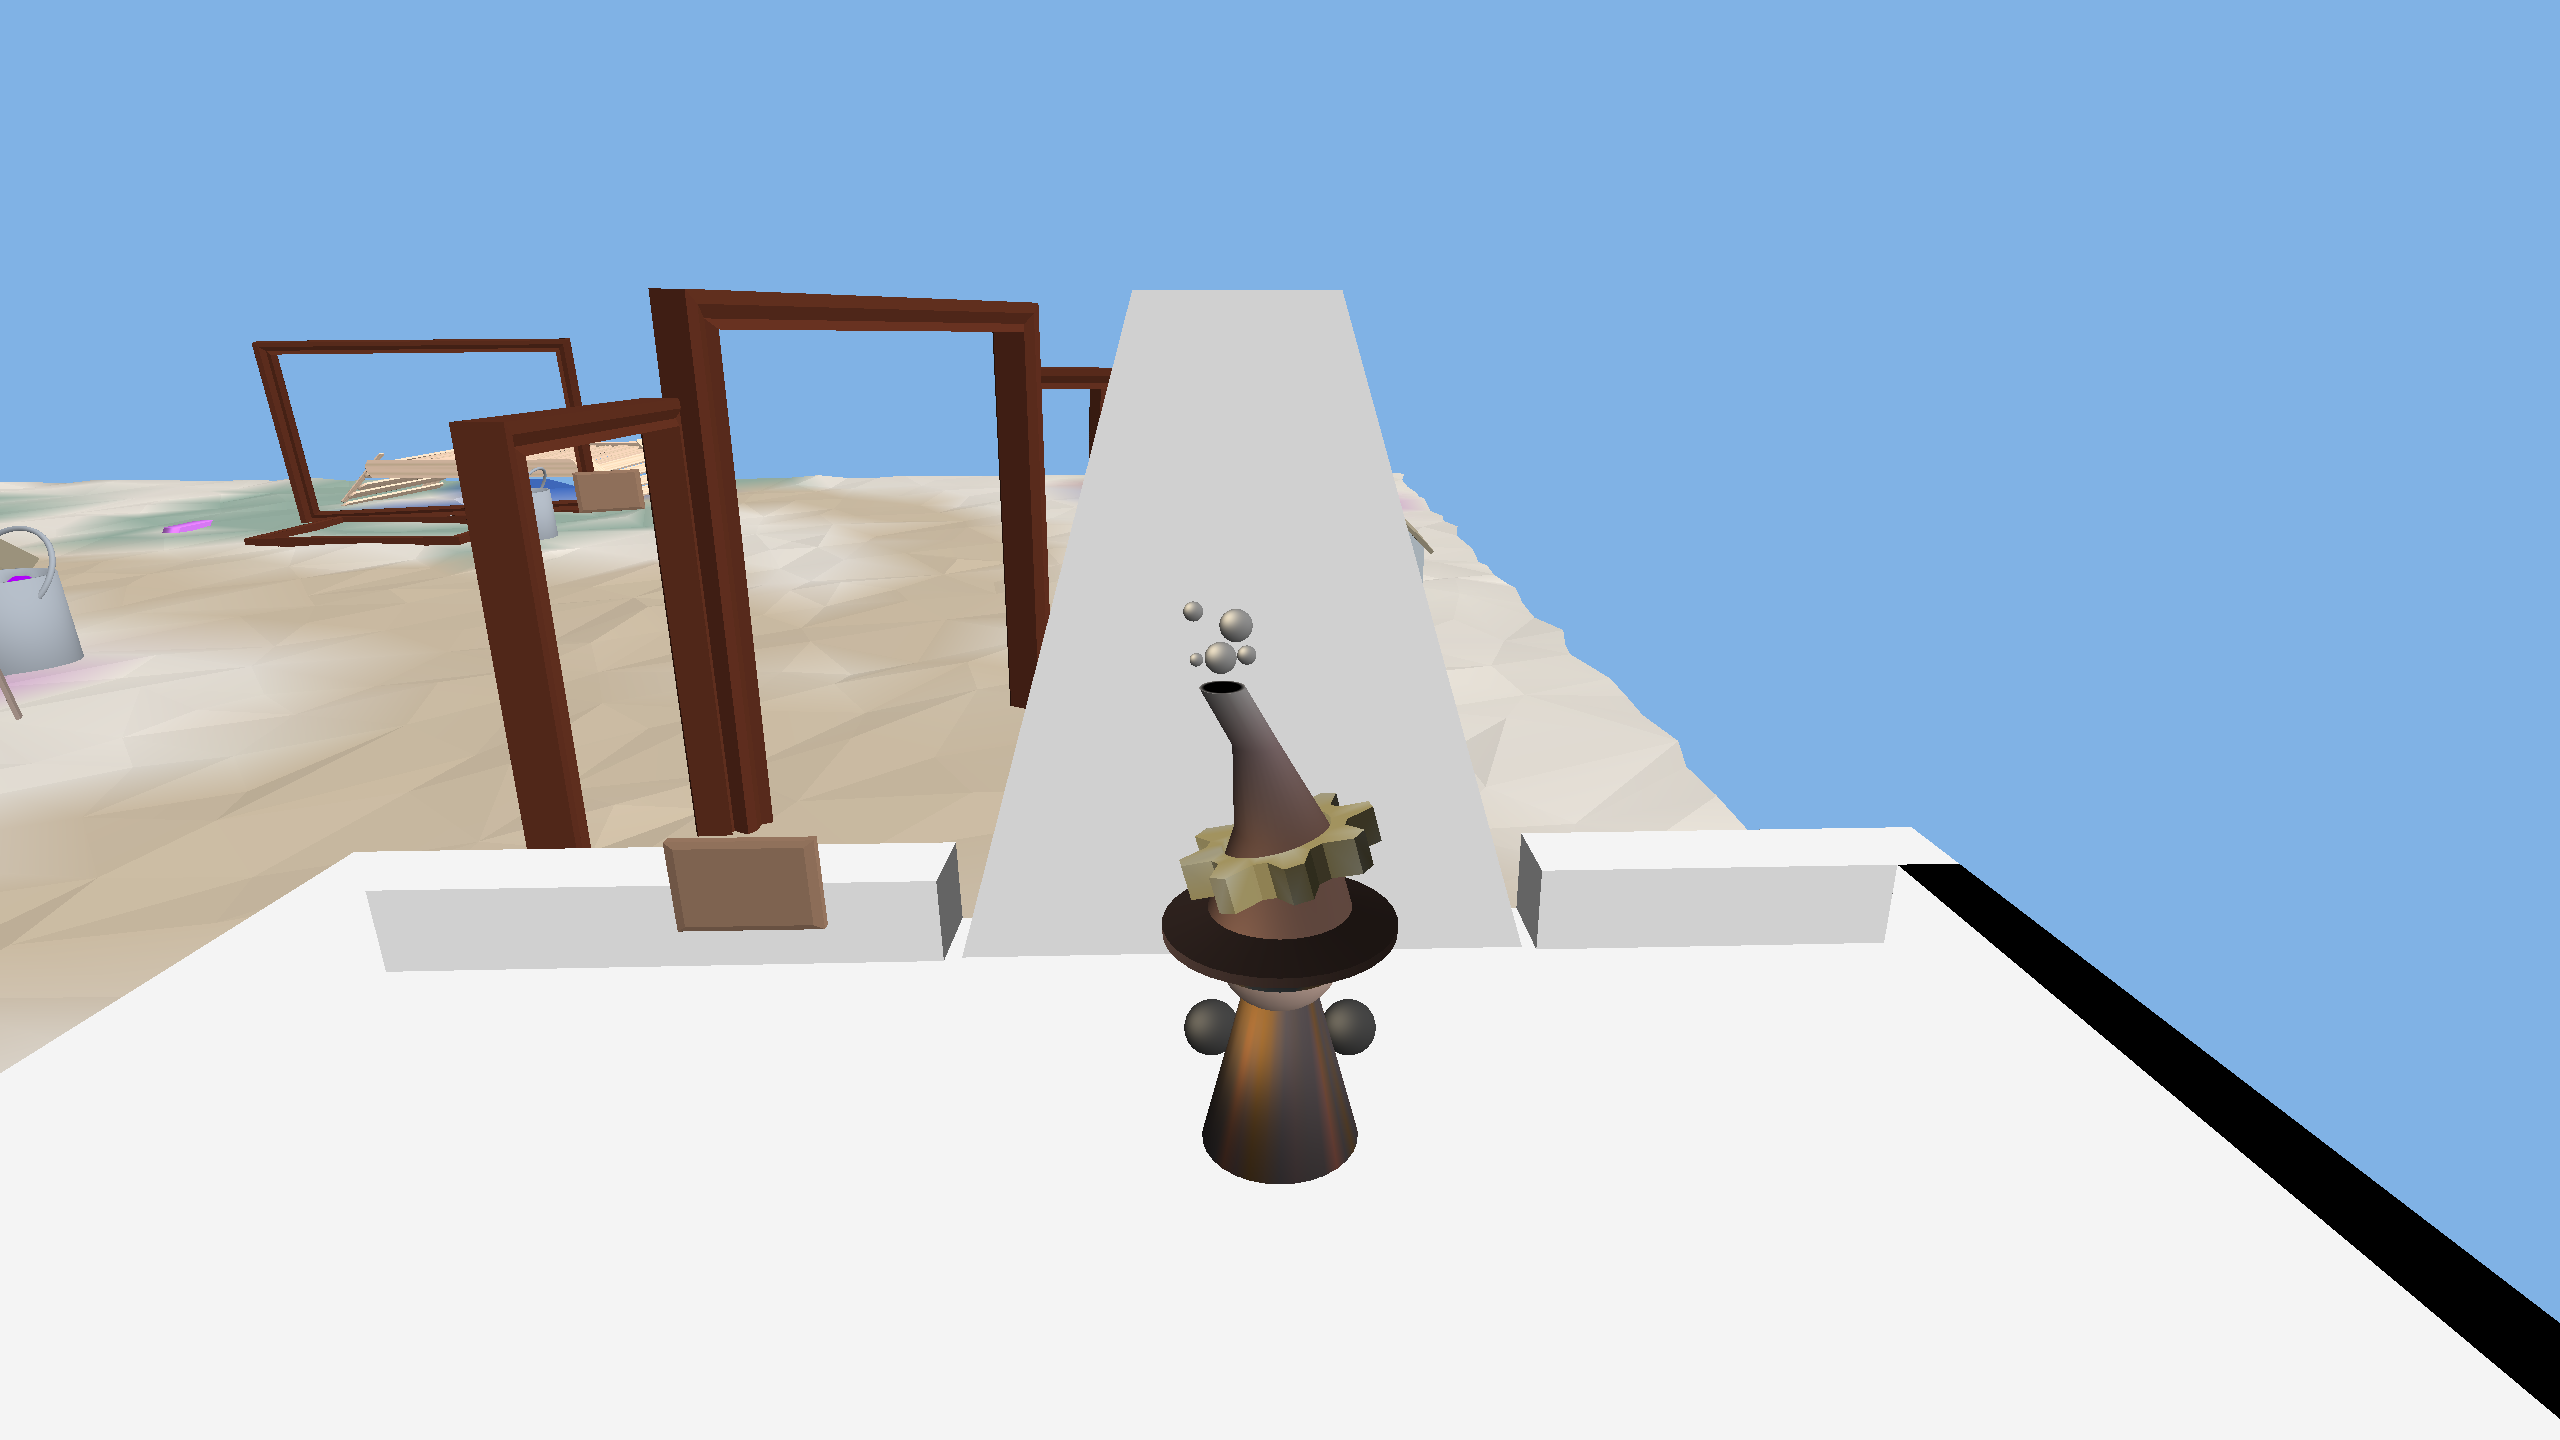
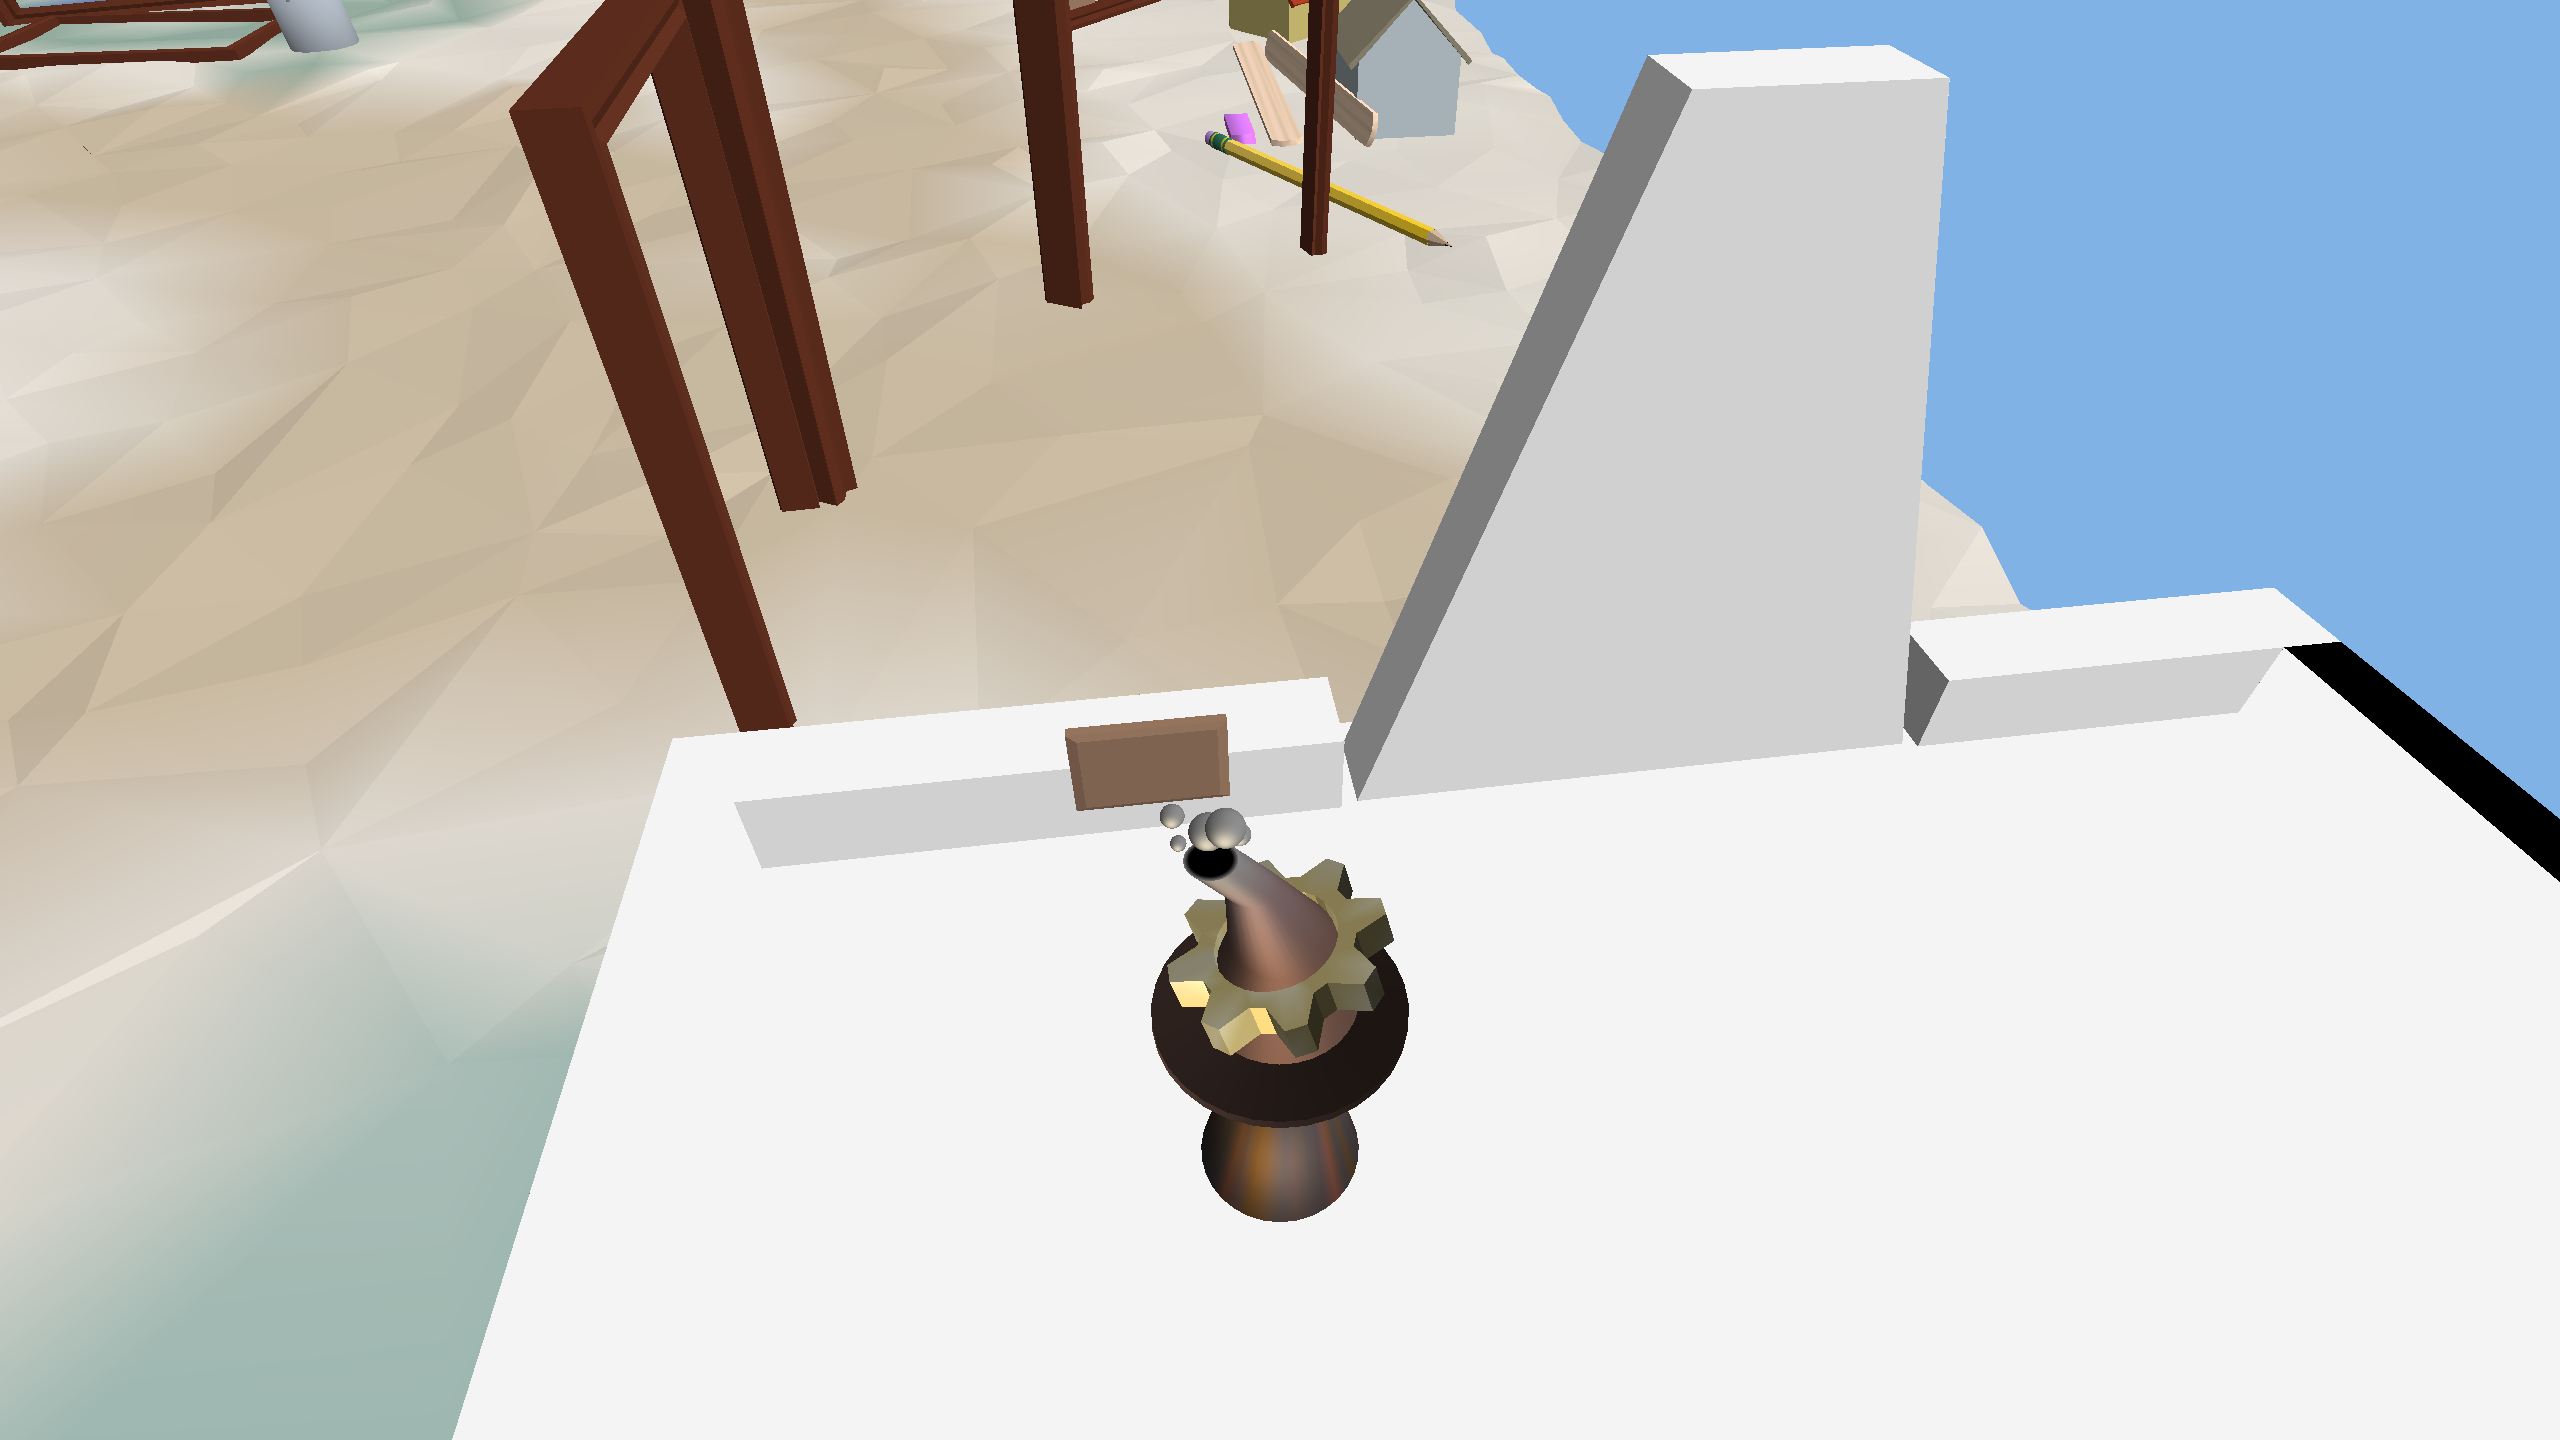
Integrate my zoom code to master

diff --git a/PlayMode.cpp b/PlayMode.cpp
@@ -24,24 +24,39 @@ GLuint artworld_meshes_for_rocket_color_texture_program = 0;
 GLuint textcube_meshes_for_lit_color_texture_program = 0;
 GLuint wizard_meshes_for_lit_color_texture_program = 0;
 
+// object name to transform
+std::unordered_map<std::string, Scene::Transform *>nameToTransform;
+// text bearer name to mesh
+std::unordered_map<std::string, Mesh const *>textBearers;
+// text bearer name to camera
+std::unordered_map<std::string, std::string>textBearerCams;
+
 Load<MeshBuffer> artworld_meshes(LoadTagDefault, []() -> MeshBuffer const * {
     MeshBuffer const *ret = new MeshBuffer(data_path("artworld.pnct"));
     artworld_meshes_for_lit_color_texture_program = ret->make_vao_for_program(lit_color_texture_program->program);
     artworld_meshes_for_rocket_color_texture_program = ret->make_vao_for_program(rocket_color_texture_program->program);
+
+    // register text bearers and their cameras
+    for (const auto &[name, mesh] : ret->meshes) {
+      if (name.rfind("text_", 0) != std::string::npos) {
+std::cout << "Found sign: " << name << std::endl;
+        textBearers[name] = &mesh;
+        if (name.back() != 'm') {
+          std::cerr << "Sign mesh " << name << " doesn't end in m" << std::endl;
+        } else {
+          std::string camname = name;
+          camname.back() = 'c';
+          textBearerCams[name] = camname;
+        }
+      }
+    }
+
     return ret;
 });
 
 Load<MeshBuffer> wizard_meshes(LoadTagDefault, []() -> MeshBuffer const * {
     MeshBuffer const *ret = new MeshBuffer(data_path("wizard.pnct"));
     wizard_meshes_for_lit_color_texture_program = ret->make_vao_for_program(lit_color_texture_program->program);
-    return ret;
-});
-
-Mesh const *textFace;
-Load<MeshBuffer> textcube_meshes(LoadTagDefault, []() -> MeshBuffer const * {
-    MeshBuffer const *ret = new MeshBuffer(data_path("textcube.pnct"));
-    textcube_meshes_for_lit_color_texture_program = ret->make_vao_for_program(lit_color_texture_program->program);
-    textFace = &ret->lookup("TextFace");
     return ret;
 });
 
@@ -54,6 +69,9 @@ Load<Scene> artworld_scene(LoadTagDefault, []() -> Scene const * {
     return new Scene(
             data_path("artworld.scene"),
             [&](Scene &scene, Scene::Transform *transform, std::string const &mesh_name) {
+                // keep transforms available
+                nameToTransform[mesh_name] = transform;
+
                 if (mesh_name == "Player")
                     return;
                 
@@ -132,6 +150,8 @@ PlayMode::PlayMode()
     player.camera->fovy = glm::radians(60.0f);
     player.camera->near = 0.01f;
     player.camera->transform->parent = player.transform;
+    player.camera->transform->name = "player_c";
+    scene.cams["player_c"] = player.camera;
     
     //default view point behind player
     player.camera->transform->position = glm::vec3(-0.0f, -5.0f, 2.5f);
@@ -162,18 +182,6 @@ PlayMode::PlayMode()
     wizard_drawable->pipeline.count = mesh.count;
     wizard_drawable->specular_info.shininess = 10.0f;
     wizard_drawable->specular_info.specular_brightness = glm::vec3(1.0f, 0.9f, 0.7f);
-    
-    scene.transforms.emplace_back();
-    transform = &scene.transforms.back();
-    transform->position = glm::vec3(2.0, 2.0, 2.0);
-    
-    scene.drawables.emplace_back(std::make_shared<Scene::Drawable>(transform));
-    std::shared_ptr<Scene::Drawable> text_drawable = scene.drawables.back();
-    text_drawable->pipeline = lit_color_texture_program_pipeline;
-    text_drawable->pipeline.vao = textcube_meshes_for_lit_color_texture_program;
-    text_drawable->pipeline.type = textFace->type;
-    text_drawable->pipeline.start = textFace->start;
-    text_drawable->pipeline.count = textFace->count;
     
     initialize_scene_metadata();
     initialize_collider("col_", artworld_meshes);
@@ -335,14 +343,67 @@ bool PlayMode::handle_event(SDL_Event const &evt, glm::uvec2 const &window_size)
 }
 
 void PlayMode::update(float elapsed) {
-    if (!animated && read.pressed) {
+    if (!animated && read.pressed && animationTime == 0.0) {
+      //float distance = std::numeric_limits<float>::max();
+      float distance = 5.0; // sight distance
+      auto playerToWorld = player.transform->make_local_to_world();
+      auto here = playerToWorld * glm::vec4(player.transform->position, 1.0);
+      std::string selected;
+      for (const auto &[name, mesh] : textBearers) {
+	auto transform = nameToTransform[name];
+        auto there = transform->make_local_to_world() * glm::vec4(transform->position, 1.0);
+        float newdistance = glm::distance(here, there);
+std::cout << "distance: " << newdistance << std::endl;
+        if (newdistance < distance) {
+          distance = newdistance;
+          selected = name;
+        }
+      }
+      if (selected.size() != 0) {
+std::cout << "selected: " << selected << std::endl;
+        assert(selected.back() == 'm');
+        std::string selectedCamera = textBearerCams[selected];
+        auto destCamera = scene.cams[selectedCamera];
+        assert(destCamera != nullptr);
         animated = true;
+        animationTime = 0.0f;
+        auto selectedToWorld = nameToTransform[selected]->make_local_to_world();
+        auto endposition = selectedToWorld * glm::vec4(destCamera->transform->position, 1.0);
+        auto startposition = playerToWorld * glm::vec4(player.camera->transform->position, 1.0);
+        auto endrotation = glm::quat_cast(glm::mat3(selectedToWorld) * glm::mat3_cast(destCamera->transform->rotation));
+        auto startrotation = glm::quat_cast(glm::mat3(playerToWorld) * glm::mat3_cast(player.camera->transform->rotation));
         splineposition = Spline<glm::vec3>();
-        splinerotation = Spline<glm::vec3>();
-        splineposition.set(0.0f, player.camera->transform->position);
-        splineposition.set(1.0f, player.camera->transform->position);
-        
+        splinerotation = Spline<glm::quat>();
+        splineposition.set(0.0f, startposition);
+        splinerotation.set(0.0f, startrotation);
+        splineposition.set(1.0f, endposition);
+        splinerotation.set(1.0f, endrotation);
+        // now use world camera
+        player.camera->transform->parent = nullptr;
+      } else {
+        std::cout << "No readable sign in range" << std::endl;
+      }
     }
+    // camera animation
+    if (animated) {
+      animationTime += elapsed;
+      animationTime = std::min(1.0f, animationTime);
+      player.camera->transform->position = splineposition.at(animationTime);
+      player.camera->transform->rotation = splinerotation.at(animationTime);
+      if (animationTime == 1.0f) {
+        animated = false;
+      }
+    }
+
+    // reset camera
+    if (!animated && !read.pressed && animationTime > 0.0) {
+      animationTime = 0.0;
+      player.camera->transform->position = glm::vec3(-0.0f, -5.0f, 2.5f);
+      player.camera->transform->rotation = glm::vec3(glm::radians(84.0f), glm::radians(0.0f), glm::radians(0.0f));
+      // back to player local camera
+      player.camera->transform->parent = player.transform;
+    }
+
     //player walking:
     {
         //combine inputs into a move:

diff --git a/Scene.cpp b/Scene.cpp
@@ -286,6 +286,7 @@ void Scene::load(std::string const &filename,
 		}
 		cameras.emplace_back(hierarchy_transforms[c.transform]);
 		Camera *camera = &cameras.back();
+                cams[camera->transform->name] = camera;
 		camera->fovy = c.data / 180.0f * 3.1415926f; //FOV is stored in degrees; convert to radians.
 		camera->near = c.clip_near;
 		//N.b. far plane is ignored because cameras use infinite perspective matrices.
@@ -378,6 +379,7 @@ void Scene::set(Scene const &other, std::unordered_map< Transform const *, Trans
 
 	//copy other's cameras, updating transform pointers:
 	cameras = other.cameras;
+        cams = other.cams;
 	for (auto &c : cameras) {
 		c.transform = transform_to_transform.at(c.transform);
 	}

diff --git a/PlayMode.hpp b/PlayMode.hpp
@@ -35,7 +35,9 @@ struct PlayMode : Mode {
     } left, right, down, up, read;
     // camera animation
     bool animated = false;
-    Spline<glm::vec3> splineposition, splinerotation;
+    float animationTime = 0.0f;
+    Spline<glm::vec3> splineposition;
+    Spline<glm::quat> splinerotation;
     
     //local copy of the game scene (so code can change it during gameplay):
     Scene scene;

diff --git a/Scene.hpp b/Scene.hpp
@@ -178,6 +178,8 @@ struct Scene {
 	std::list< Camera > cameras;
 	std::list< Light > lights;
 
+        // camera name to camera
+        std::unordered_map<std::string, Camera *> cams;
 
 	std::unordered_map<std::string, std::shared_ptr<Drawable>> drawble_name_map;
 	std::list< std::shared_ptr<Collider> > colliders;
